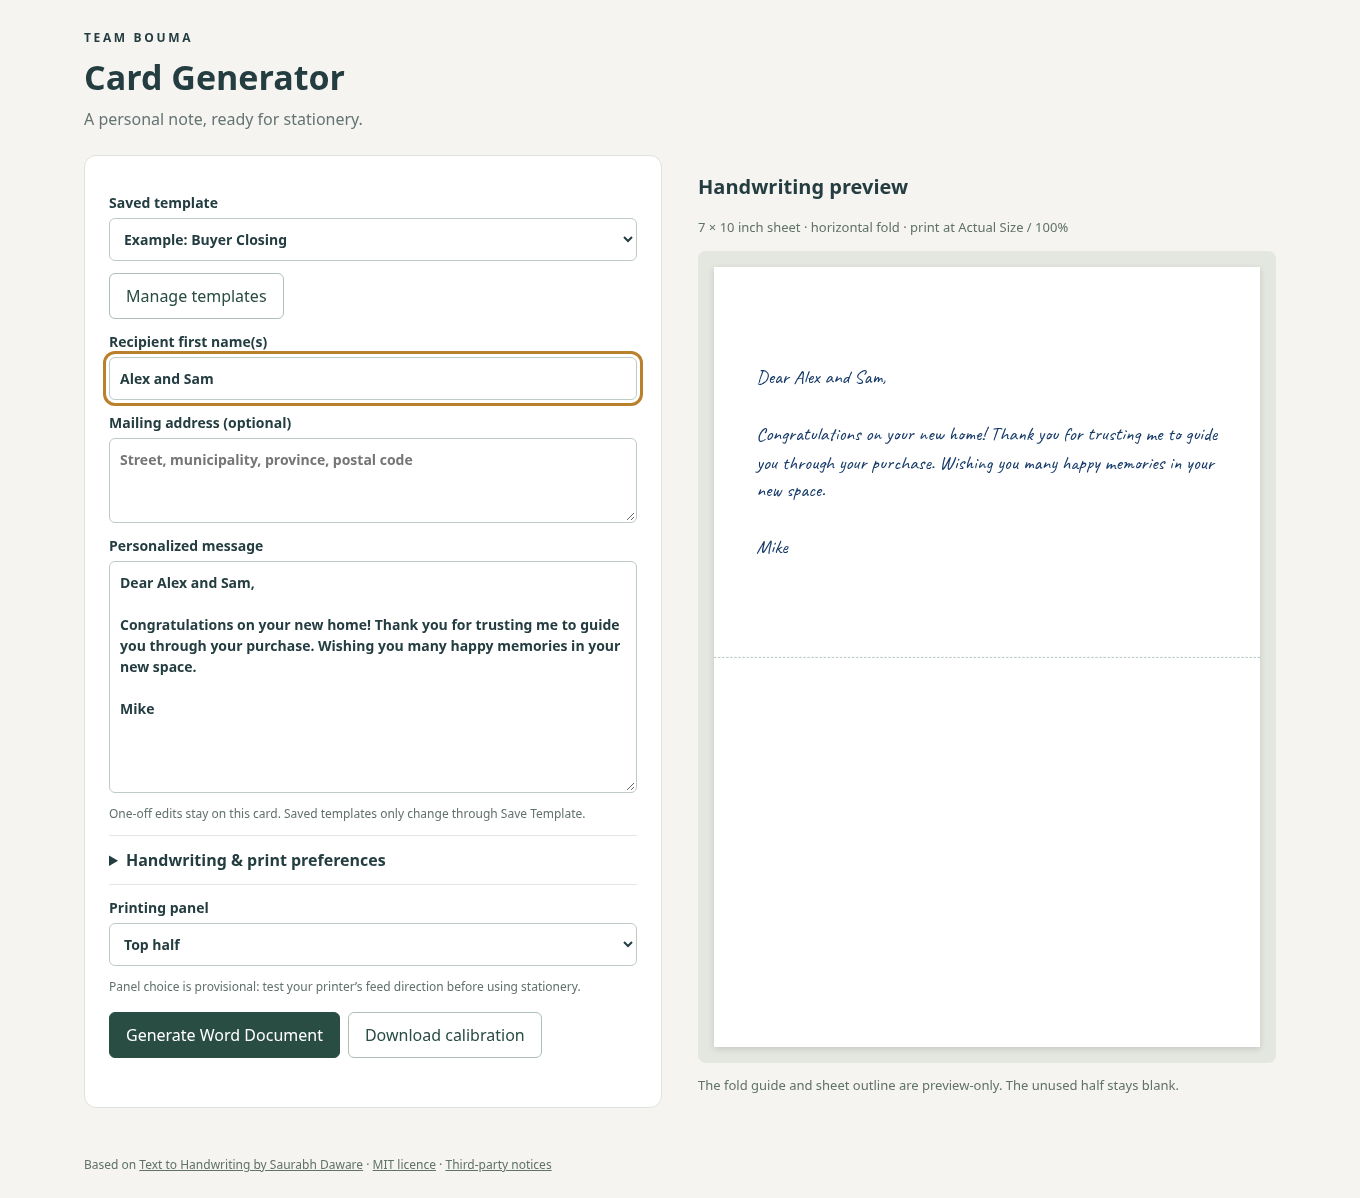
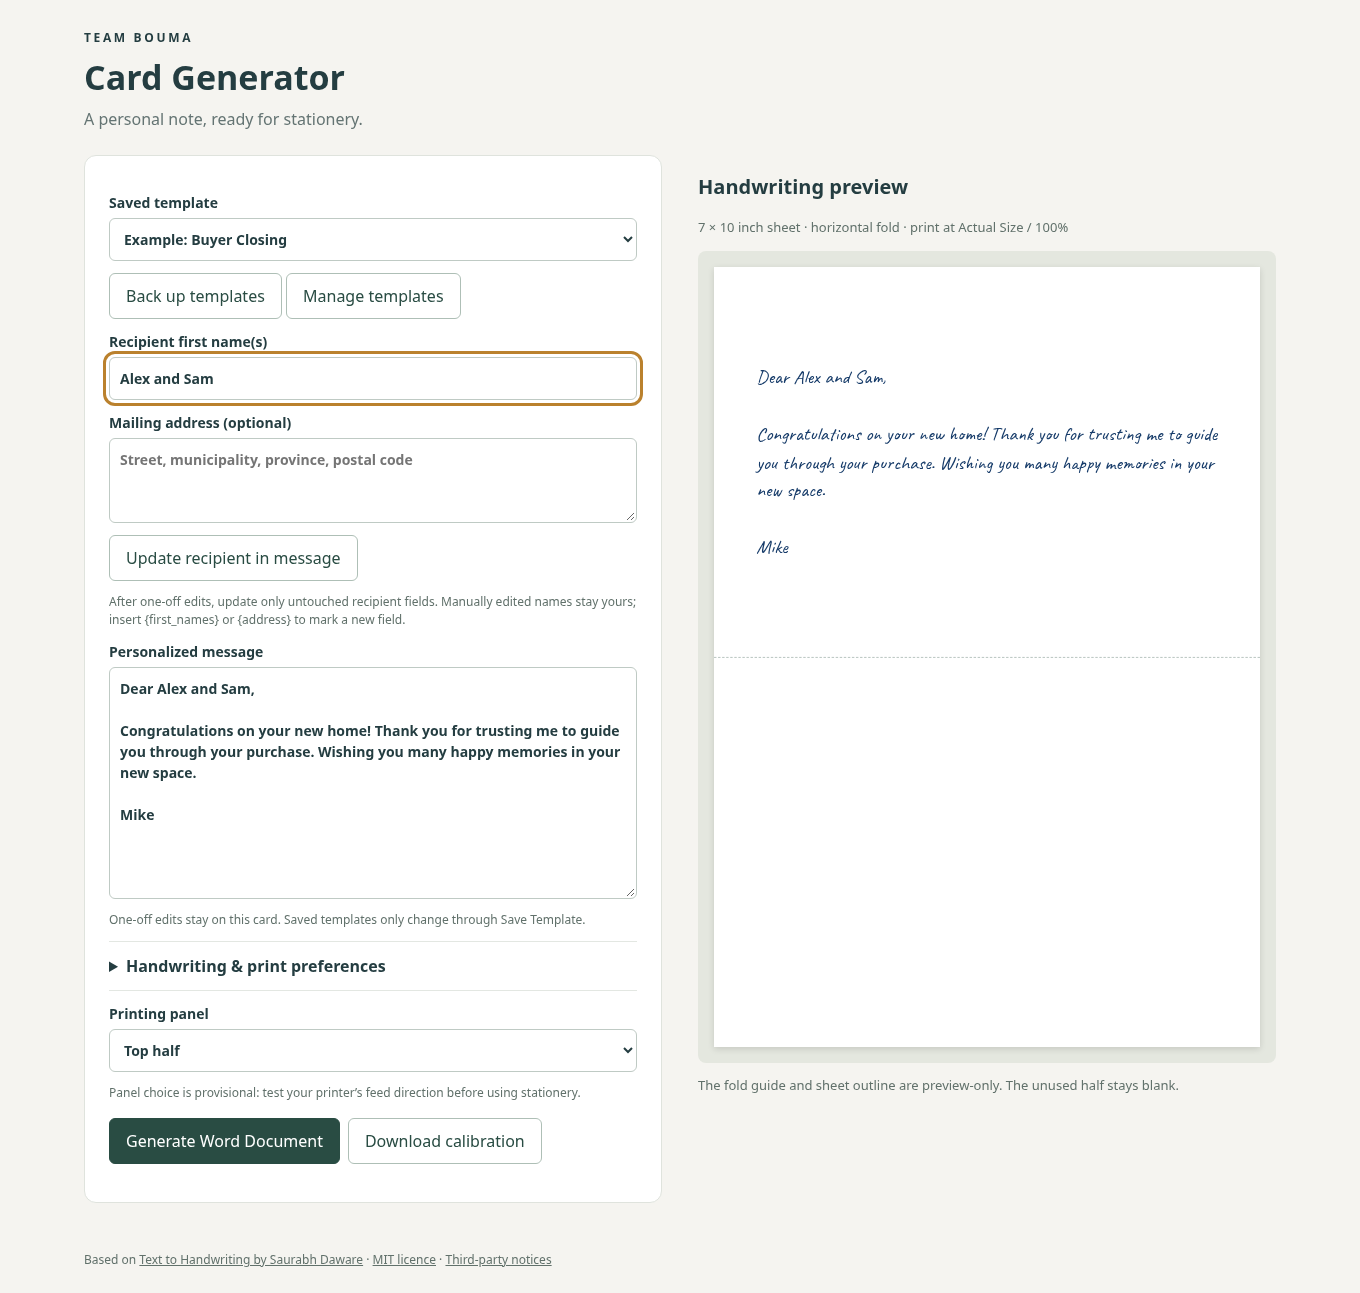
fix: preserve card edits during recipient updates and export transparent ink

diff --git a/card/app.js b/card/app.js
@@ -1,10 +1,5 @@
-import {
-  load,
-  save,
-  personalize,
-  validateTemplates,
-  importTemplates
-} from './storage.js';
+import { workingCopy, trackEdit, updateRecipient } from './personalization.js';
+import { load, save, validateTemplates, importTemplates } from './storage.js';
 import {
   WIDTH,
   HEIGHT,
@@ -86,6 +81,7 @@ let selected = '',
   base = '',
   managerId = '',
   managerDirty = false;
+let copy = { text: '', fields: [] };
 const recipient = () => ({
   firstNames: $('names').value,
   address: $('address').value
@@ -129,7 +125,8 @@ new ResizeObserver(updatePreview).observe($('sheet').parentElement);
 function applyTemplate(id) {
   selected = id;
   base = state.templates.find((t) => t.id === id)?.message || '';
-  $('message').value = personalize(base, recipient());
+  copy = workingCopy(base, recipient());
+  $('message').value = copy.text;
   workingDirty = false;
   updatePreview();
 }
@@ -145,18 +142,31 @@ $('template').addEventListener('change', () => {
 });
 $('message').addEventListener('input', () => {
   workingDirty = true;
+  copy = trackEdit(copy, $('message').value);
   updatePreview();
 });
 for (const id of ['names', 'address'])
   $(id).addEventListener('input', () => {
     if (!workingDirty) {
-      $('message').value = personalize(base, recipient());
+      copy = workingCopy(base, recipient());
+      $('message').value = copy.text;
       updatePreview();
     } else
       status(
-        'Recipient updated. Your one-off message edits were kept; update the greeting in the message if needed.'
+        'Recipient details changed. Your edits were kept. Use Update recipient in message to refresh untouched recipient fields.'
       );
   });
+
+$('update-recipient').onclick = () => {
+  copy = updateRecipient(copy, recipient());
+  $('message').value = copy.text;
+  updatePreview();
+  status(
+    copy.fields.length
+      ? 'Recipient fields updated. Your other message edits and saved template were kept.'
+      : 'No untouched recipient fields remain. Edit the greeting directly, or insert {first_names} or {address} and click Update recipient in message.'
+  );
+};
 for (const key in defaults)
   $(key).addEventListener('input', () => {
     updatePreview();
@@ -270,7 +280,7 @@ $('delete-template').onclick = () => {
     templateError(e);
   }
 };
-$('export-templates').onclick = () =>
+$('backup-templates').onclick = $('export-templates').onclick = () =>
   download(
     new Blob(
       [JSON.stringify({ version: 1, templates: state.templates }, null, 2)],
@@ -329,7 +339,7 @@ async function capture(calibration) {
     zIndex: '-1',
     display: 'flex',
     alignItems: 'center',
-    backgroundColor: 'white',
+    backgroundColor: 'transparent',
     width: `${WIDTH}px`,
     height: `${HEIGHT}px`
   });
@@ -356,7 +366,7 @@ async function capture(calibration) {
       scale: SCALE,
       width: WIDTH,
       height: HEIGHT,
-      backgroundColor: '#ffffff',
+      backgroundColor: null,
       scrollX: 0,
       scrollY: 0
     });

diff --git a/card/personalization.js b/card/personalization.js
@@ -1,0 +1,68 @@
+// Track only placeholder-derived ranges, never arbitrary matching names in prose.
+const tokens = /\{(first_names|address)\}/g;
+const value = (key, recipient) =>
+  key === 'first_names' ? recipient.firstNames : recipient.address;
+export function workingCopy(source, recipient) {
+  let text = '',
+    end = 0;
+  const fields = [];
+  for (const match of source.matchAll(tokens)) {
+    text += source.slice(end, match.index);
+    const start = text.length;
+    text += value(match[1], recipient);
+    fields.push({ key: match[1], start, end: text.length });
+    end = match.index + match[0].length;
+  }
+  return { text: text + source.slice(end), fields };
+}
+export function trackEdit(copy, text) {
+  if (copy.text === text) return copy;
+  let start = 0,
+    tail = 0;
+  while (
+    start < copy.text.length &&
+    start < text.length &&
+    copy.text[start] === text[start]
+  )
+    start++;
+  while (
+    tail < copy.text.length - start &&
+    tail < text.length - start &&
+    copy.text[copy.text.length - tail - 1] === text[text.length - tail - 1]
+  )
+    tail++;
+  const end = copy.text.length - tail,
+    delta = text.length - copy.text.length;
+  // If an edit touches a personalized field, stop managing that field.
+  const fields = copy.fields.flatMap((f) => {
+    if (f.start === f.end && f.start === start) return [];
+    if (f.end <= start) return [f];
+    if (f.start >= end)
+      return [{ ...f, start: f.start + delta, end: f.end + delta }];
+    return [];
+  });
+  return { text, fields };
+}
+export function updateRecipient(copy, recipient) {
+  const fields = [...copy.fields];
+  for (const match of copy.text.matchAll(tokens)) {
+    if (!fields.some((f) => match.index >= f.start && match.index < f.end))
+      fields.push({
+        key: match[1],
+        start: match.index,
+        end: match.index + match[0].length
+      });
+  }
+  fields.sort((a, b) => a.start - b.start);
+  let text = '',
+    end = 0;
+  const updated = [];
+  for (const f of fields) {
+    text += copy.text.slice(end, f.start);
+    const start = text.length;
+    text += value(f.key, recipient);
+    updated.push({ ...f, start, end: text.length });
+    end = f.end;
+  }
+  return { text: text + copy.text.slice(end), fields: updated };
+}

diff --git a/index.html b/index.html
@@ -19,6 +19,9 @@
             ><option value="">Custom message</option></select
           ></label
         >
+        <button id="backup-templates" class="secondary">
+          Back up templates
+        </button>
         <button id="manage" class="secondary">Manage templates</button>
         <div class="recipients">
           <label
@@ -34,6 +37,14 @@
             ></textarea>
           </label>
         </div>
+        <button id="update-recipient" class="secondary">
+          Update recipient in message
+        </button>
+        <p class="hint">
+          After one-off edits, update only untouched recipient fields. Manually
+          edited names stay yours; insert {first_names} or {address} to mark a
+          new field.
+        </p>
         <label
           >Personalized message<textarea
             id="message"

diff --git a/card/export.js b/card/export.js
@@ -4,7 +4,8 @@ import {
   Paragraph,
   ImageRun,
   HorizontalPositionRelativeFrom,
-  VerticalPositionRelativeFrom
+  VerticalPositionRelativeFrom,
+  LineRuleType
 } from 'docx';
 export const WIDTH = 576,
   HEIGHT = 384,
@@ -56,7 +57,13 @@ export async function wordBlob(canvas, settings) {
           },
           children: [
             new Paragraph({
-              spacing: { before: 0, after: 0 },
+              spacing: {
+                before: 0,
+                after: 0,
+                line: 1,
+                lineRule: LineRuleType.EXACT
+              },
+              run: { size: 2 },
               children: [image]
             })
           ]

diff --git a/README.md b/README.md
@@ -26,7 +26,7 @@ If Cypress's separate legacy binary is not needed, install using `CYPRESS_INSTAL
 5. Select **Top half** or **Bottom half**. This is a physical printer choice: the initial top-half setting is provisional, not a claim about your stationery feed direction.
 6. Click **Generate Word Document**. Empty messages, unresolved `{placeholders}`, and messages that exceed the printable panel block export with instructions to shorten the message or adjust its size/spacing.
 
-Changing handwriting preferences never replaces your message. If you edit the message manually, later recipient changes preserve those edits and tell you to update the greeting manually. Switching templates asks before discarding one-off edits. Keep a copy of important unsaved messages before closing the page.
+Changing handwriting preferences never replaces your message. If you edit the message manually, later recipient changes preserve those edits. Click **Update recipient in message** to refresh the remaining template-derived name/address fields without replacing your custom prose. A manually edited recipient field is no longer managed and is left untouched, even if it matches an old name elsewhere in the message. If you rewrite the whole message, edit the greeting directly or insert `{first_names}` / `{address}` and click the update button. Multiple separate edits can make a field's provenance ambiguous; the safe fallback is to leave it alone, never guess by replacing matching names throughout your text. Switching templates asks before discarding one-off edits. Keep a copy of important unsaved messages before closing the page.
 
 ## Manage and back up templates
 
@@ -34,7 +34,7 @@ Open **Manage templates** to create, select, edit, rename, explicitly **Save Tem
 
 Example buyer, seller, referral, and general thank-you templates are editable/deletable. They are seeded only when storage is first initialized; deleted examples never reappear after refresh.
 
-**Export Templates to JSON** creates a versioned backup. **Import Templates from JSON** validates the entire file before saving and adds copies with new IDs; it never replaces existing templates, including same-name templates. Invalid files leave current data unchanged. Limits: 2 MB per import, 200 total templates, 100 characters per name, and 10,000 per template message. A backup has the form:
+**Back up templates** is always visible beside template management on the main screen; it downloads the same versioned JSON backup as **Export Templates to JSON** in the manager. **Import Templates from JSON** validates the entire file before saving and adds copies with new IDs; it never replaces existing templates, including same-name templates. Invalid files leave current data unchanged. Limits: 2 MB per import, 200 total templates, 100 characters per name, and 10,000 per template message. A backup has the form:
 
 ```json
 {"version":1,"templates":[{"name":"Thank you","message":"Dear {first_names},\n\nThank you!\n\nMike"}]}
@@ -52,7 +52,7 @@ Use a test sheet before expensive stationery:
 4. Measure the calibration rectangle. Print at **100% / Actual Size**, never Fit to Page. Disable printer-driver scaling as well. If the size is wrong, fix scaling rather than alignment offsets.
 5. Adjust horizontal/vertical offsets (±6 mm) for small printer shifts, then repeat calibration. Offsets retain more than 0.26 inches of edge/fold clearance.
 
-The normal message area is a fixed **6 × 4 inches**, centred within the selected half with 0.5 inch nominal margins. Text is vertically centred at your chosen font size; short messages are not enlarged. Rendering is **1800 × 1200 pixels (300 DPI)**, embedded as a page-relative PNG at its original physical dimensions. Export has white background, no notebook rules, margin lines, scanner effects, or preview fold guide. Font size defaults to 18 pt, dark blue, plain paper, high resolution.
+The normal message area is a fixed **6 × 4 inches**, centred within the selected half with 0.5 inch nominal margins. Text is vertically centred at your chosen font size; short messages are not enlarged. Rendering is **1800 × 1200 pixels (300 DPI)**, embedded as a page-relative PNG at its original physical dimensions. The preview stays plain white. Export uses a **transparent PNG background**, so only your ink is painted onto coloured or textured stationery. There is no opaque white rectangle, notebook ruling, margin line, scanner effect, or preview fold guide. The calibration rectangle and labels also have a transparent background. Printer/Word handling of transparency still needs the physical acceptance check below. Font size defaults to 18 pt, dark blue, plain paper, high resolution.
 
 ## Tests
 
@@ -74,7 +74,7 @@ Original Cypress tests remain at `tests/generateImage.spec.js`, targeting `/lega
 
 ## Known limitations / physical acceptance
 
-- DOCX XML dimensions, single-section structure, image anchors, and resolution are tested. **Microsoft Word and a physical printer are unavailable here**: final opening, pagination, printer-feed orientation and alignment need the calibration process above. XML checks cannot certify every Word version/driver.
+- DOCX XML dimensions, single-section structure, image anchors, transparency, lack of printable text/headers/footers, a minimal single anchor paragraph, and resolution are tested. **Microsoft Word and a physical printer are unavailable here**: final opening, pagination, printer-feed orientation and alignment need the calibration process above. XML checks cannot certify every Word version/driver.
 - Each export contains one anchored image on one logical card page. Word renders it as an image, not editable/selectable handwriting text. Long content is blocked, not split into extra cards.
 - Bundled fonts cover Latin text; other scripts require an appropriately licensed custom font. The original Hindi font remains only in the legacy fixture. Custom font upload is not persisted between sessions.
 - Legacy PDF/PNG controls remain in the regression fixture; the simplified card workflow exports Word only. There is no card PDF export in Phase 1.

diff --git a/docs/VALIDATION.md b/docs/VALIDATION.md
@@ -4,12 +4,12 @@ Validated in the managed Linux development environment on 2026-10-31, using Node
 
 - `npm run build`: passed; local DOCX bundle and fonts created.
 - `npm run check`: passed.
-- `PLAYWRIGHT_CHROMIUM_EXECUTABLE_PATH=/usr/bin/chromium npm test`: **11 passed**, none failed/skipped. Includes mobile layout and the three original behaviours via the legacy fixture.
+- `PLAYWRIGHT_CHROMIUM_EXECUTABLE_PATH=/usr/bin/chromium npm test`: **19 passed**, none failed/skipped. Includes explicit recipient refresh after one-off edits, protected manually edited/initially empty fields, discoverable backups, transparent PNG alpha/no white pixels, and both panel boundaries at ±6 mm offsets. Includes mobile layout and the three original behaviours via the legacy fixture.
 - `PATH=/workspace/onboarding/xvfb-runtime/usr/bin:$PATH npm run test:legacy`: **3 passed**, none failed/skipped, Cypress 4.4.1 / Electron 80. The local Xvfb runtime was prepared during validation and is not a project dependency.
 - `git diff --check`: passed.
 - Original `LICENSE`, `js/` rendering modules/vendor assets, and `css/` files are unchanged.
 - Essential card workflow verified with all non-local requests blocked. Three handwriting fonts are bundled with their separate licence texts; the legacy fixture still has upstream external-resource references.
-- DOCX ZIP/XML independently inspected using Python: page width 10080 twips, height 14400 twips, single section, page-relative top/bottom image anchors, 6 × 4 inch image extent, 1800 × 1200 embedded PNG. Pixel bounds verify text is present, vertically centred, and inside the image. Short and medium messages export; oversized, unresolved, and empty messages are rejected.
+- DOCX ZIP/XML independently inspected using Python: page width 10080 twips, height 14400 twips, single section and single minimal paragraph containing only one image (no printable text, table, header/footer references or page breaks), page-relative top/bottom image anchors, 6 × 4 inch image extent, 1800 × 1200 embedded PNG. PNG alpha checks verify over 90% fully transparent pixels and no white-painted pixels for the default ink. The white preview remains unchanged. Pixel bounds verify text is present, vertically centred, and inside the image. Short and medium messages export; oversized, unresolved, and empty messages are rejected.
 - Preview and embedded PNG visually inspected. [Interface screenshot](card-generator.png) uses fictitious recipients.
 
 ## Manual acceptance still required
@@ -17,3 +17,5 @@ Validated in the managed Linux development environment on 2026-10-31, using Node
 Microsoft Word and a physical printer are unavailable in this environment. XML structure and image checks do not establish actual Word pagination or physical alignment. Before production printing, open the DOCX in Word, confirm a single 7 × 10 inch portrait page, print the calibration at 100% / Actual Size on plain paper, measure the 6 × 4 inch rectangle, and determine panel/feed orientation. Repeat with stationery before regular use. Do not use Fit to Page.
 
 No DYMO or transaction-app integration, authentication, database, public deployment, merge, or environment publication was performed. Optional secondary card PDF/PNG export was deferred; Word is the primary card output. The retained legacy fixture supports its original export controls.
+
+For this refinement, the Word image is transparent (including calibration), while the preview remains white. Print the calibration and a sample note on coloured/textured test stationery in Word to confirm that the printer/driver preserves transparency. Word and physical printing are still not available here; the single-page claim is verified structurally, not by running Microsoft Word.
